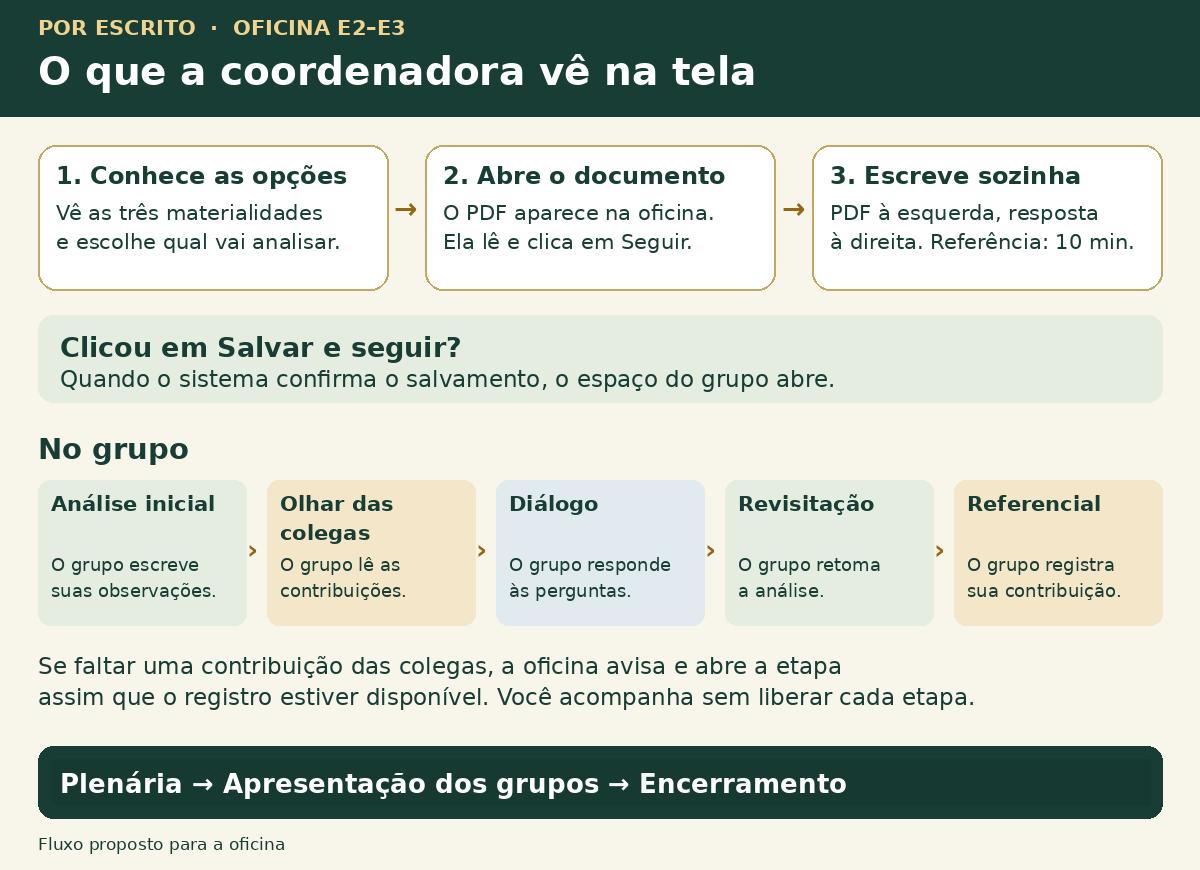
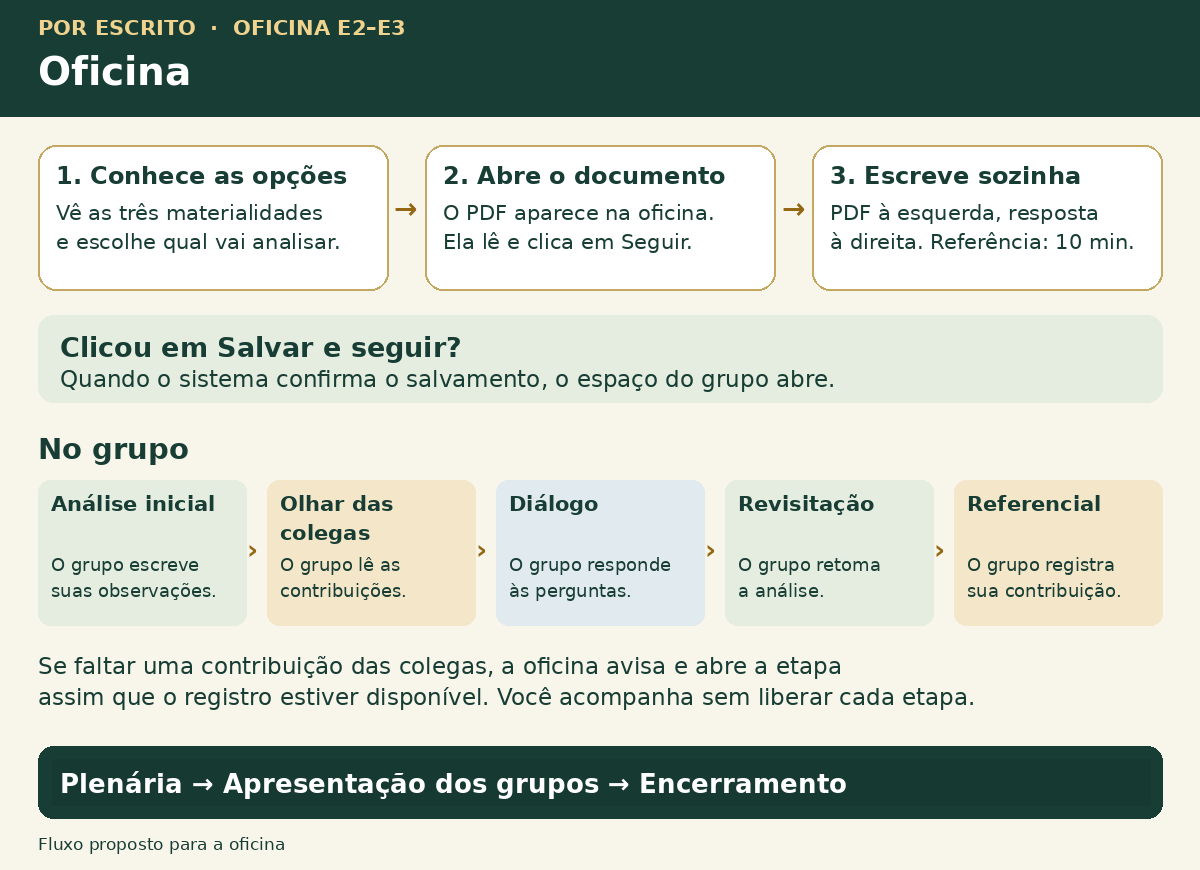
Ajusta somente o título visual e mantém os retornos dentro da oficina

Changed region(s): [[0.0617, 0.0621, 0.6475, 0.1241]]

diff --git a/e23-acesso-reservado.js b/e23-acesso-reservado.js
@@ -29,6 +29,11 @@ export async function entrar({host,el,btn,pesquisadora}){
      modulos,selecionado:pagina,nome:l.actor.name,pesquisadora,homologacao:!pesquisadora,
      navegar:exibir,sair:()=>{sessionStorage.removeItem(slot);location.reload();}
    });
+   if(pagina==='e23')for(const voltar of painel.parentElement.querySelectorAll('.percurso-voltar')){
+     voltar.title='Voltar ao início do fluxo da oficina';
+     voltar.setAttribute('aria-label',voltar.title);
+     voltar.onclick=()=>{exibir('e23');document.querySelector('.workspace')?.scrollIntoView({block:'start'});};
+   }
    const secoesReservadas={e4:'E4 — Decisões em situações reais de trabalho',e5:'E5 — Construindo referências para o trabalho da coordenação pedagógica',livre:'Entre encontros',carta:'Carta de Percurso',novidades:'Novidades',orientacao:'Orientação',acessos:'Acessos individuais',admin:'Administração'};
    if(pesquisadora&&Object.hasOwn(secoesReservadas,pagina)){
      const link=el('a','Abrir painel com chave oficial da pesquisadora');
@@ -94,7 +99,7 @@ export async function entrar({host,el,btn,pesquisadora}){
    if(pagina==='e23'&&!pesquisadora){
      const abertura=el('section');
      const imagem=el('img');
-     imagem.src='fluxo-oficina-e23.png?v=fechamento-plenaria';imagem.alt='Fluxo da oficina E2–E3: escolha da materialidade, análise individual, trabalho em grupo e plenária.';
+     imagem.src='fluxo-oficina-e23.png?v=oficina';imagem.alt='Fluxo da oficina E2–E3: escolha da materialidade, análise individual, trabalho em grupo e plenária.';
      imagem.style.cssText='display:block;width:100%;height:auto;margin-bottom:1rem';
      const apresentacao=el('div');apresentacao.style.position='relative';
      const ajuste=el('span');ajuste.setAttribute('aria-hidden','true');
@@ -114,7 +119,7 @@ export async function entrar({host,el,btn,pesquisadora}){
    const observar=new MutationObserver(async()=>{
      if(!oficina.isConnected)return;
      observar.disconnect();
-     try{await (await import('./e23-coordenadoras.js?v=fechamento-plenaria')).abrir({host:oficina,rpc,chave:token,el,onDirty:()=>{}});}
+     try{await (await import('./e23-coordenadoras.js?v=ver-materialidades')).abrir({host:oficina,rpc,chave:token,el,onDirty:()=>{}});}
      catch(e){oficina.textContent=e.message;}
    });
    observar.observe(host,{subtree:true,childList:true});
@@ -128,7 +133,7 @@ export function montarFluxoPesquisadora({el,btn,oficina,l,rpc,carregarPdf,regist
      let materialEscolhido;
      const rascunhosProposta=[[],[],[]];
      function inicioOficina(){
-       const imagem=el('img');imagem.src='fluxo-oficina-e23.png?v=fechamento-plenaria';
+       const imagem=el('img');imagem.src='fluxo-oficina-e23.png?v=oficina';
        imagem.alt='Fluxo da oficina E2–E3';
        imagem.style.cssText='display:block;width:100%;height:auto;margin-bottom:1rem';
        const parte=(inicio,fim,arte)=>{

diff --git a/admin.js b/admin.js
@@ -233,7 +233,7 @@ function render(){
    const {url}=await resp.json();
    return url;
   };
-  import('./e23-acesso-reservado.js?v=voltar-ao-fluxo').then(({montarFluxoPesquisadora})=>{
+  import('./e23-acesso-reservado.js?v=oficina-ver-voltar').then(({montarFluxoPesquisadora})=>{
    if(!host.isConnected)return;
    host.replaceChildren(montarFluxoPesquisadora({el,btn,oficina:acompanhamento,carregarPdf,registrarVoltar:fn=>{voltarAoFluxo=fn;}}));
    import('./e23-pesquisadora.js?v=fluxo-direto').then(m=>m.abrir({host:acompanhamento,chamar,el,btn})).catch(e=>{acompanhamento.textContent=e.message;});
@@ -370,7 +370,7 @@ function render(){
 /* A mesma capa abre o portal reservado da pesquisadora antes de carregar o painel.
    A chave permanece na sessão; só consultar os registros após a entrada explícita. */
 (async()=>{
- if(new URLSearchParams(location.search).has('oficina')){await (await import('./e23-acesso-reservado.js?v=percurso-por-etapa')).entrar({host:app,el,btn,pesquisadora:true});return;}
+ if(new URLSearchParams(location.search).has('oficina')){await (await import('./e23-acesso-reservado.js?v=oficina-ver-voltar')).entrar({host:app,el,btn,pesquisadora:true});return;}
  const h=new URLSearchParams(location.hash.slice(1));
  chave=h.get('chave')||sessionStorage.getItem('percurso_admin')||'';
  if(location.hash)history.replaceState(null,'',location.pathname+location.search);

diff --git a/percurso.js b/percurso.js
@@ -197,7 +197,7 @@ async function abrirOficina(){
  const orientacoes=el('section',undefined,'e23');
  orientacoes.hidden=true;
  const fluxo=el('img');
- fluxo.src='fluxo-oficina-e23.png?v=fechamento-plenaria';
+ fluxo.src='fluxo-oficina-e23.png?v=oficina';
  fluxo.alt='Fluxo da oficina E2–E3: escolha da materialidade, escrita individual, produção coletiva, circulação e plenária.';
  fluxo.style.cssText='display:block;width:100%;height:auto';
  const continuar=btn('Seguir para a oficina',()=>{
@@ -392,7 +392,7 @@ openModule=function(m){if(!m)return;if(data?.participante?.codigo?.startsWith('O
 /* A capa é a primeira tela para todas as participantes.
    O token pessoal permanece restrito à sessão e só abre o percurso após clique. */
 (async()=>{
- if(new URLSearchParams(location.search).has('oficina')){await (await import('./e23-acesso-reservado.js?v=fechamento-plenaria')).entrar({host:app,el,btn,pesquisadora:false});return;}
+ if(new URLSearchParams(location.search).has('oficina')){await (await import('./e23-acesso-reservado.js?v=oficina-ver-voltar')).entrar({host:app,el,btn,pesquisadora:false});return;}
  const u=new URL(location.href);
  const hash=new URLSearchParams(u.hash.slice(1));
  const incoming=(u.searchParams.get('token')||hash.get('token')||hash.get('chave')||'').trim();

diff --git a/index.html b/index.html
@@ -4,5 +4,5 @@
 <a class="enter-cta" href="#app">Entrar no meu percurso <span aria-hidden="true">↓</span></a>
 </div>
 <div class="brand-compact" aria-label="Por Escrito — por Nanny Oliveira"><img src="monograma-por-escrito.svg?v=20261103" width="72" height="46" alt="" aria-hidden="true"><div class="brand-compact-name"><strong>Por Escrito</strong><span>por Nanny Oliveira</span></div></div>
-</header><main id="app"></main><footer>Um espaço para registrar, retomar e acompanhar seu percurso.<br>Nanny Oliveira · 2026</footer><script src="navegacao.js?v=menu-entre-encontros"></script><script src="arquivos.js?v=20261103_arquivos_e2"></script><script src="percurso.js?v=ver-materialidades"></script><script src="pwa-install.js?v=3"></script></body></html>
+</header><main id="app"></main><footer>Um espaço para registrar, retomar e acompanhar seu percurso.<br>Nanny Oliveira · 2026</footer><script src="navegacao.js?v=menu-entre-encontros"></script><script src="arquivos.js?v=20261103_arquivos_e2"></script><script src="percurso.js?v=oficina-ver-voltar"></script><script src="pwa-install.js?v=3"></script></body></html>
 

diff --git a/organizador.html b/organizador.html
@@ -4,5 +4,5 @@
 <a class="enter-cta" href="#app">Entrar no painel da pesquisadora <span aria-hidden="true">↓</span></a>
 </div>
 <div class="brand-compact" aria-label="Por Escrito — por Nanny Oliveira"><img src="monograma-por-escrito.svg?v=20261103" width="72" height="46" alt="" aria-hidden="true"><div class="brand-compact-name"><strong>Por Escrito</strong><span>por Nanny Oliveira</span></div></div>
-</header><main id="app"></main><script src="navegacao.js?v=menu-entre-encontros"></script><script src="arquivos.js?v=20261103_arquivos_e2"></script><script src="admin.js?v=voltar-ao-fluxo"></script><script src="pwa-install.js?v=3"></script></body></html>
+</header><main id="app"></main><script src="navegacao.js?v=menu-entre-encontros"></script><script src="arquivos.js?v=20261103_arquivos_e2"></script><script src="admin.js?v=oficina-ver-voltar"></script><script src="pwa-install.js?v=3"></script></body></html>
 
